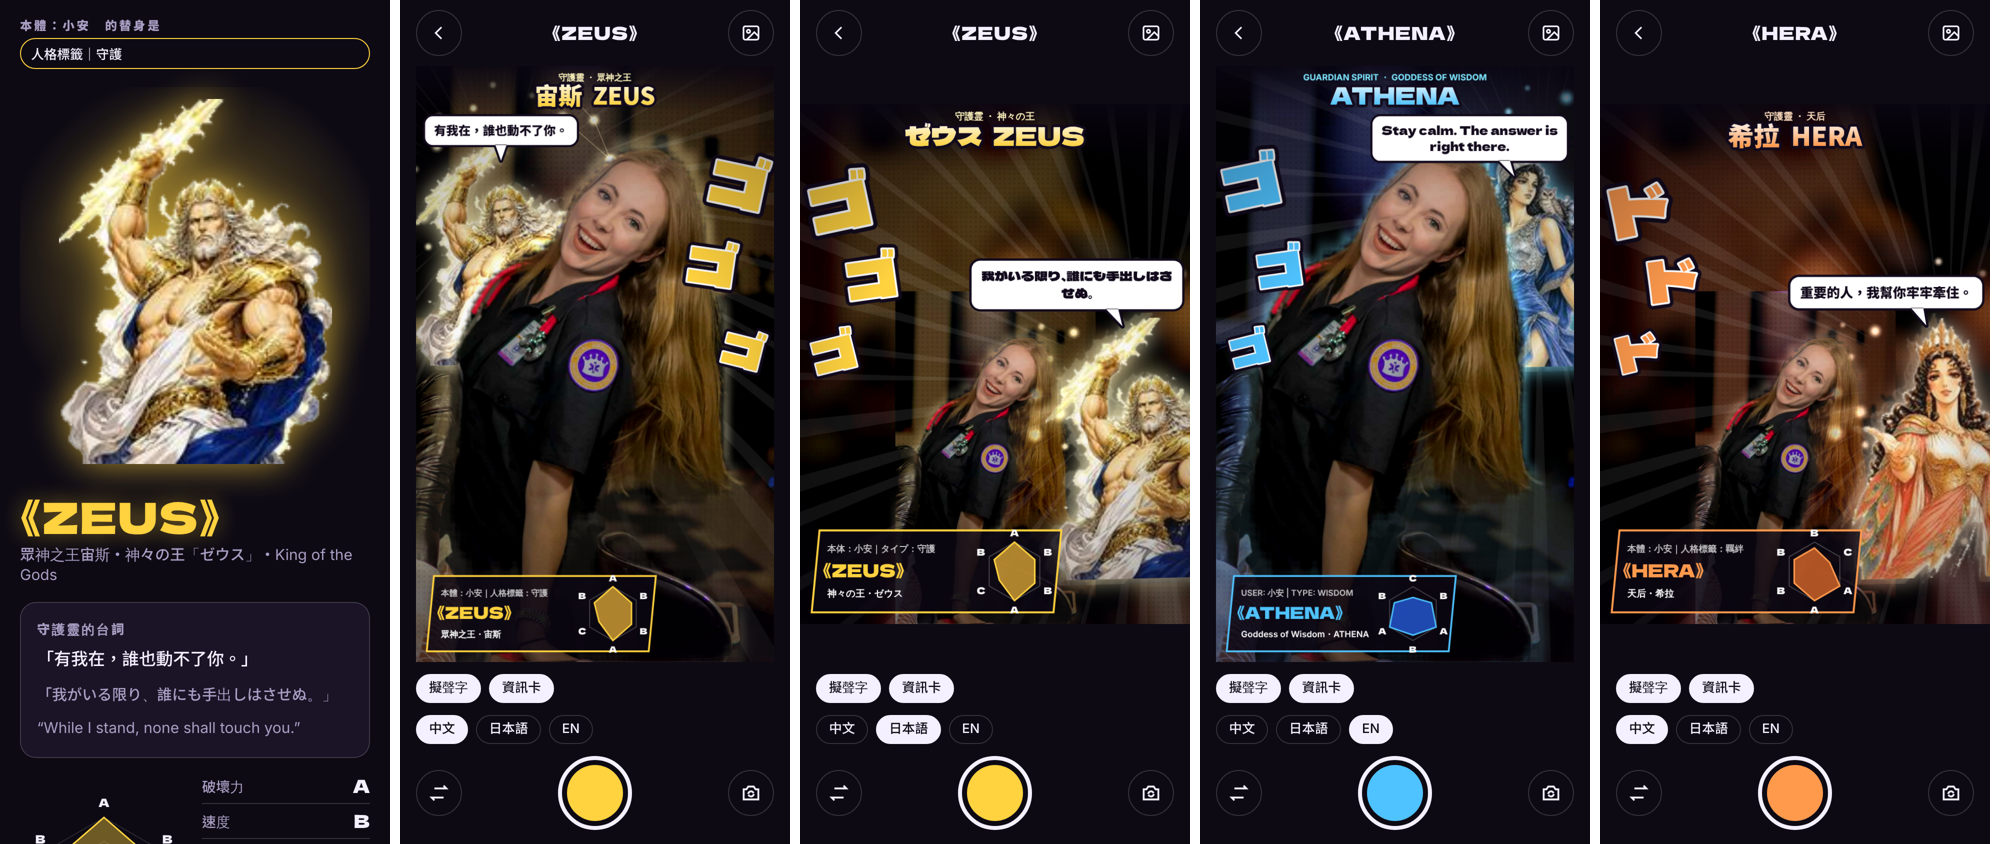
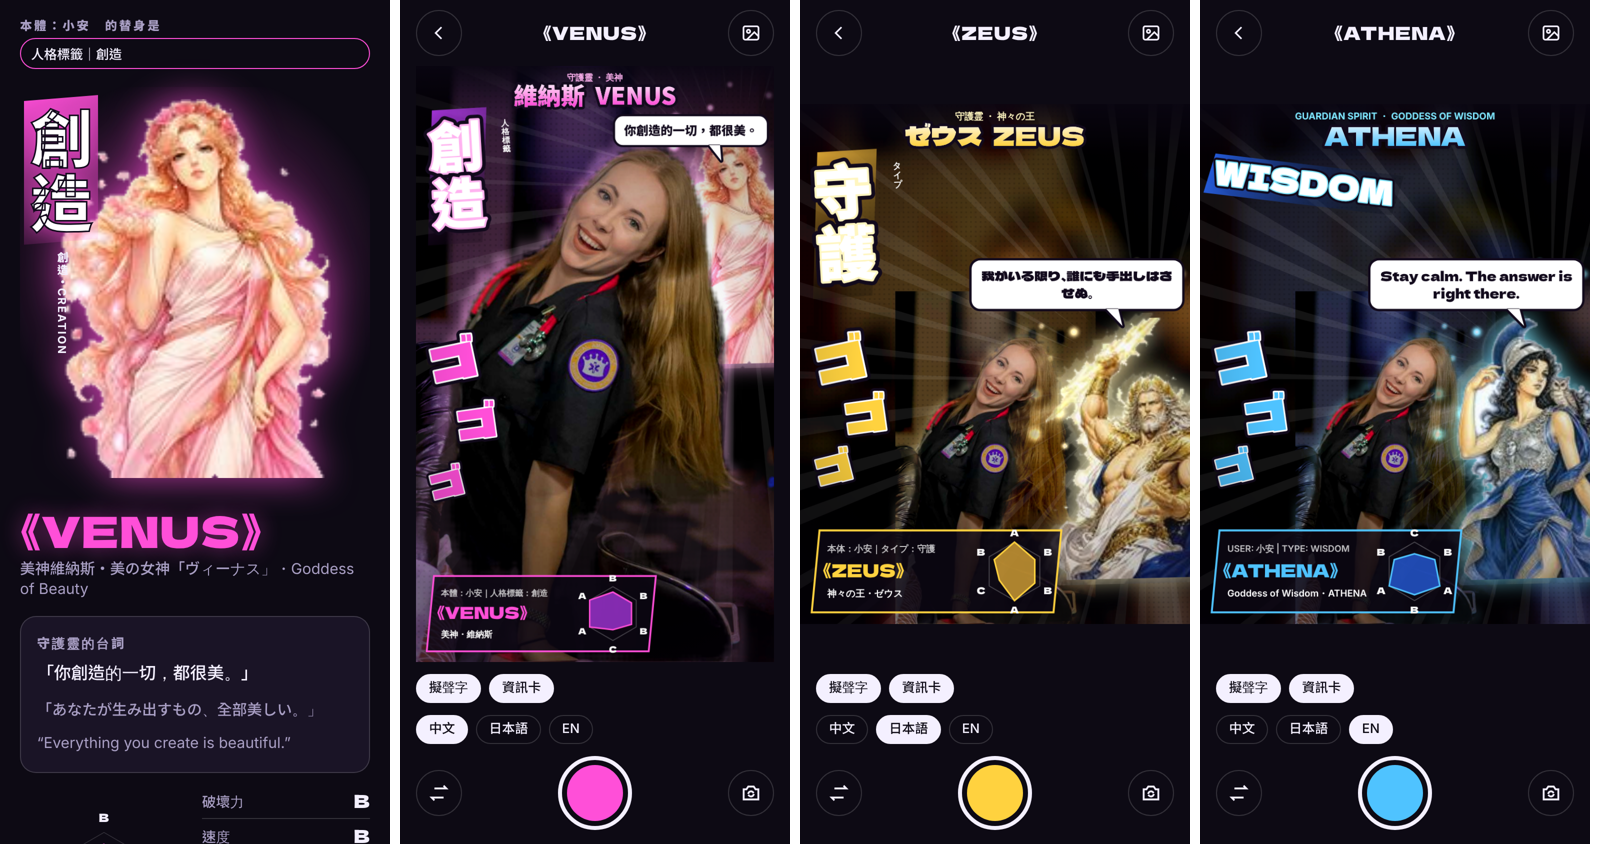
加入人格標籤大字排版（直排「守護」「創造」等）
相機畫面在守護靈另一側放直排大字與色塊，開場時砸進畫面；英文為斜放的大字。
結果頁的立繪旁也加上同樣的直排大字。擬聲字往下移讓位。

Claude-Session: https://claude.ai/code/session_01FywWfzukWDvxouKVzAMEPQ

diff --git a/stand-filter/app.js b/stand-filter/app.js
@@ -146,6 +146,8 @@ async function showResult(s) {
   useStand(s);
   $('rOwner').textContent = `本體：${s.owner}　的替身是`;
   $('rTag').textContent = `人格標籤｜${s.tag}`;
+  $('rTagBig').textContent = s.tag;
+  $('rTagSub').textContent = `${s.tagNames.ja}・${s.tagNames.en}`;
   $('rName').textContent = `《${s.name}》`;
   $('rZh').textContent = s.names ? `${s.zh}・${s.titles.ja}「${s.names.ja}」・${s.titles.en}` : s.zh;
   $('rLine').textContent = `「${s.line.zh}」`; $('rLineJa').textContent = `「${s.line.ja}」`; $('rLineEn').textContent = `“${s.line.en}”`;
@@ -449,8 +451,55 @@ function render(now) {
   if (state.sfx) sfx(W, H, t, s);
   vignette(W, H);
   if (state.card && s.owner) standCard(W, H, s);
+  tagStamp(W, H, s, u, now);
   titleBanner(W, H, s, u, ease);
   if (state.standHead) speech(W, H, s, u, t, ease);
+}
+
+// ── 人格標籤大字：「守護」「創造」這種一眼就懂的直排大字，放在守護靈的另一側 ──
+function tagStamp(W, H, s, u, now) {
+  const L = state.lang, word = s.tagNames?.[L] || s.tag;
+  const t0 = (now - state.summonAt) / 1000 - .5; if (t0 <= 0) return;
+  const k = Math.min(1, t0 / .35), slam = 1 + (1 - k) * .8;     // 從大往下「砸」進畫面
+  const side = -(state.useSide ?? state.side);                   // 守護靈的另一邊
+  const top = TITLE_H * u + 2 * u;
+  ctx.save(); ctx.globalAlpha = k;
+  if (L === 'en') {
+    let px = 9 * u; ctx.font = FONT.en(900, px);
+    while (ctx.measureText(word).width > W * .5 && px > 4 * u) { px *= .92; ctx.font = FONT.en(900, px); }
+    const w = ctx.measureText(word).width, x = side > 0 ? W - 3 * u - w / 2 : 3 * u + w / 2, y = top + px;
+    ctx.translate(x, y); ctx.rotate(-.12 * side); ctx.scale(slam, slam);
+    stampBar(-w / 2 - 2 * u, -px * .95, w + 4 * u, px * 1.25, s);
+    stampText(word, 0, 0, px, s, u);
+  } else {
+    // 直排：一個字一格
+    const chars = [...word], px = Math.min(15 * u, (H * .42) / chars.length);
+    ctx.font = FONT.zh(900, px);                                  // 漢字一律用思源黑體，日文字型缺字
+    const x = side > 0 ? W - 4 * u - px / 2 : 4 * u + px / 2;
+    const h = chars.length * px * 1.05;
+    ctx.translate(x, top + h / 2); ctx.rotate(.06 * side); ctx.scale(slam, slam);
+    stampBar(-px * .62, -h / 2 - px * .2, px * 1.24, h + px * .4, s);
+    chars.forEach((c, i) => stampText(c, 0, -h / 2 + px * (i * 1.05 + .88), px, s, u));
+    // 旁邊的小字：人格標籤 / タイプ
+    ctx.font = `700 ${2.2 * u}px system-ui, sans-serif`; ctx.fillStyle = '#fff'; ctx.textAlign = 'center';
+    const sub = L === 'ja' ? 'タイプ' : '人格標籤';
+    [...sub].forEach((c, i) => ctx.fillText(c, -side * px * .95, -h / 2 + 2.4 * u * (i + 1)));
+  }
+  ctx.restore();
+}
+function stampBar(x, y, w, h, s) {
+  // 筆刷感的色塊：斜切的平行四邊形
+  ctx.save(); ctx.globalAlpha *= .9;
+  const g = ctx.createLinearGradient(x, y, x + w, y + h); g.addColorStop(0, s.tint); g.addColorStop(1, 'rgba(0,0,0,.2)');
+  ctx.fillStyle = g; const sk = Math.min(w, h) * .18;
+  ctx.beginPath(); ctx.moveTo(x + sk, y); ctx.lineTo(x + w, y); ctx.lineTo(x + w - sk, y + h); ctx.lineTo(x, y + h); ctx.closePath(); ctx.fill();
+  ctx.restore();
+}
+function stampText(c, x, y, px, s, u) {
+  ctx.textAlign = 'center'; ctx.textBaseline = 'alphabetic'; ctx.lineJoin = 'round';
+  ctx.lineWidth = px * .2; ctx.strokeStyle = '#120a1c'; ctx.strokeText(c, x, y);
+  ctx.lineWidth = px * .07; ctx.strokeStyle = s.glow; ctx.strokeText(c, x, y);
+  ctx.fillStyle = '#fff'; ctx.fillText(c, x, y);
 }
 
 // ── 前景文字：守護靈名稱（最上方）與台詞對話框，永遠畫在人和替身的前面 ──
@@ -571,7 +620,7 @@ function speedLines(x, y, W, H, t, s) {
 }
 
 // 擬聲字放在替身的另一側，跟著節奏抖動
-const SFX_SLOTS = [[.1, .2, -12, 1], [.18, .34, -8, .82], [.09, .48, -14, .68]];
+const SFX_SLOTS = [[.1, .5, -12, .8], [.17, .6, -8, .66], [.09, .7, -14, .55]];
 function sfx(W, H, t, s) {
   const base = Math.min(W, H) * .17;
   ctx.save();

diff --git a/stand-filter/index.html b/stand-filter/index.html
@@ -76,6 +76,12 @@
 
   /* 結果 */
   .hero-stand { display: grid; place-items: center; border-radius: 20px; padding: 12px; background: radial-gradient(circle at 50% 45%, color-mix(in srgb, var(--accent) 45%, transparent), transparent 70%); }
+  .hero-stand { position: relative; }
+  .tag-big { position: absolute; left: 4px; top: 8px; display: grid; justify-items: center; gap: 6px; z-index: 1; }
+  .tag-big b { writing-mode: vertical-rl; font: 900 clamp(48px, 16vw, 76px)/1 var(--heading); color: #fff; letter-spacing: .04em;
+    padding: 10px 6px; background: linear-gradient(160deg, var(--accent), transparent); -webkit-text-stroke: 1.5px #120a1c;
+    text-shadow: 0 0 18px color-mix(in srgb, var(--accent) 70%, transparent); clip-path: polygon(0 4%, 100% 0, 100% 96%, 0 100%); }
+  .tag-big small { font: 700 11px/1.2 var(--body); letter-spacing: .12em; color: var(--fg); writing-mode: vertical-rl; }
   .hero-stand img { width: min(70vw, 300px); height: auto; filter: drop-shadow(0 0 18px color-mix(in srgb, var(--accent) 70%, transparent)); }
   .reveal { display: grid; gap: 6px; }
   .stand-name { font: 400 clamp(34px, 11vw, 54px)/1 var(--display); color: var(--accent); margin: 0; letter-spacing: .02em; overflow-wrap: anywhere; text-shadow: 0 0 22px color-mix(in srgb, var(--accent) 45%, transparent); }
@@ -179,7 +185,10 @@
       <span class="eyebrow" id="rOwner"></span>
       <span class="tag" id="rTag"></span>
     </div>
-    <div class="hero-stand"><img id="rImg" alt=""></div>
+    <div class="hero-stand">
+      <div class="tag-big" aria-hidden="true"><b id="rTagBig"></b><small id="rTagSub"></small></div>
+      <img id="rImg" alt="">
+    </div>
     <div class="reveal">
       <p class="stand-name" id="rName"></p>
       <span class="stand-sub" id="rZh"></span>

diff --git a/stand-filter/sw.js b/stand-filter/sw.js
@@ -1,5 +1,5 @@
 // 第一次開啟後把程式與模型存在手機裡，之後打開更快、沒網路也能用
-const CACHE = 'stand-cam-v7';
+const CACHE = 'stand-cam-v8';
 const SHELL = ['./', 'index.html', 'app.js', 'quiz.js', 'manifest.webmanifest', 'icon-192.png', 'apple-touch-icon.png',
   'lib/vision_bundle.mjs',
   ...['courage', 'nike', 'wisdom', 'apollo', 'guard', 'zeus', 'freedom', 'iris', 'create', 'hephaestus', 'bond', 'hera'].map((id) => `stands/${id}.jpg`), 'models/selfie_segmenter.tflite'];

diff --git a/stand-filter/README.md b/stand-filter/README.md
@@ -31,6 +31,7 @@
 替身以希臘羅馬神話的神祇為原型（神話本身沒有版權），造型是重新繪製的原創圖，沒有使用任何漫畫原作角色。宣傳時可以搭希臘神話話題，但不要用其他作品的名稱、標誌或角色名當標題。
 相機會讀出人像每一欄的最上緣，在畫面上試不同位置和大小，挑守護靈的臉最不會被擋住的地方，並像 AR 角色一樣滑過去；移動時會傾身，每 4.5 秒擺一次 pose。
 畫面最上方是守護靈名稱，守護靈旁邊有台詞對話框，都畫在最前面。名稱與台詞有中文、日文、英文，會依手機語言自動選，也可以在相機下方切換。台詞寫在 `quiz.js` 的 `LOCALE`。
+守護靈的另一側有人格標籤大字（例如直排的「守護」「創造」，英文是 PROTECTION、CREATION），開場時會「砸」進畫面。
 
 - 人像分割用 Google MediaPipe 的 selfie segmenter，**在手機上計算**，照片不會上傳到任何伺服器。
 - 程式庫與模型都放在 `lib/`、`models/`，不依賴外部 CDN。
